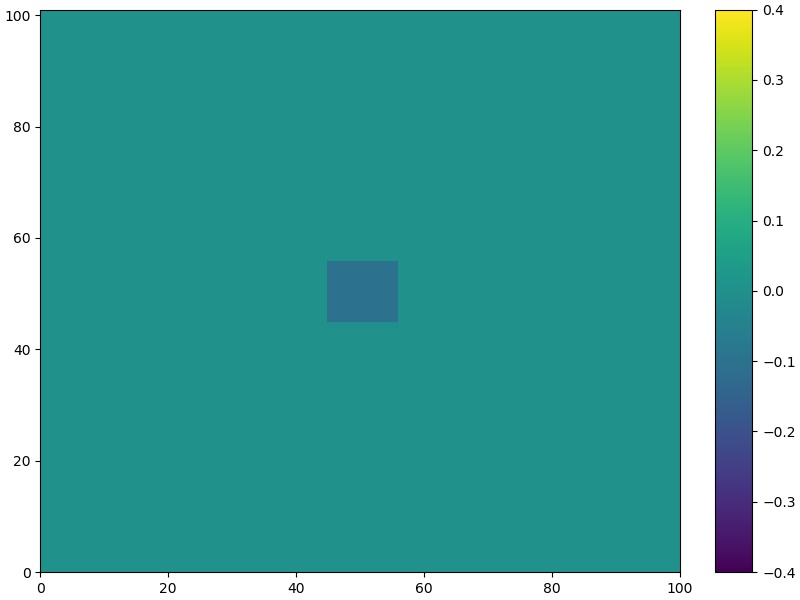
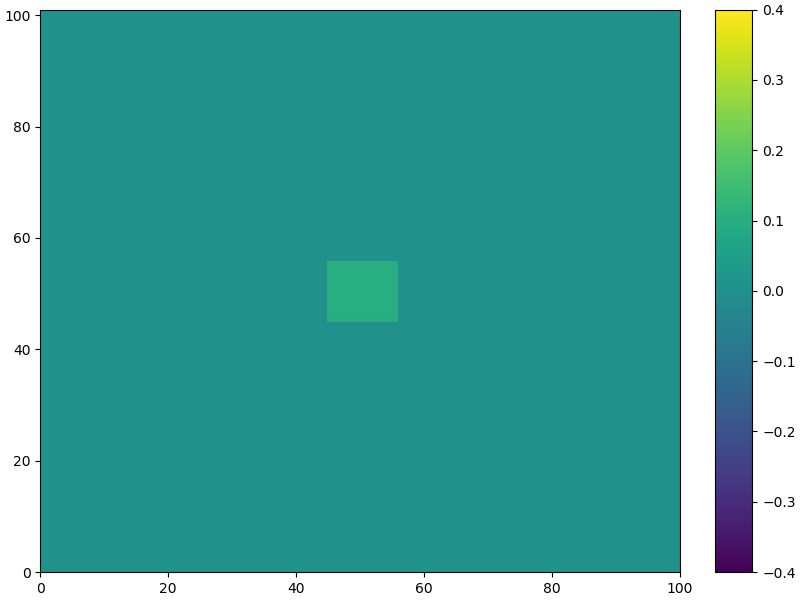
One more test...

Changed region(s): [[0.4062, 0.42, 0.5, 0.54]]

diff --git a/custom_apps/test_suit/test_suit.py b/custom_apps/test_suit/test_suit.py
@@ -566,7 +566,7 @@ for y in range(0, RESOLUTION[0] + 1):
     next = []
     for x in range(0, RESOLUTION[0] + 1):
         if(x >= 45 and x <= 55 and y >= 45 and y <= 55):
-            next.append([-0.1, -0.1])
+            next.append([0.1, -0.1])
         else:
             next.append([0.0, 0.0])
     data.append(next)
